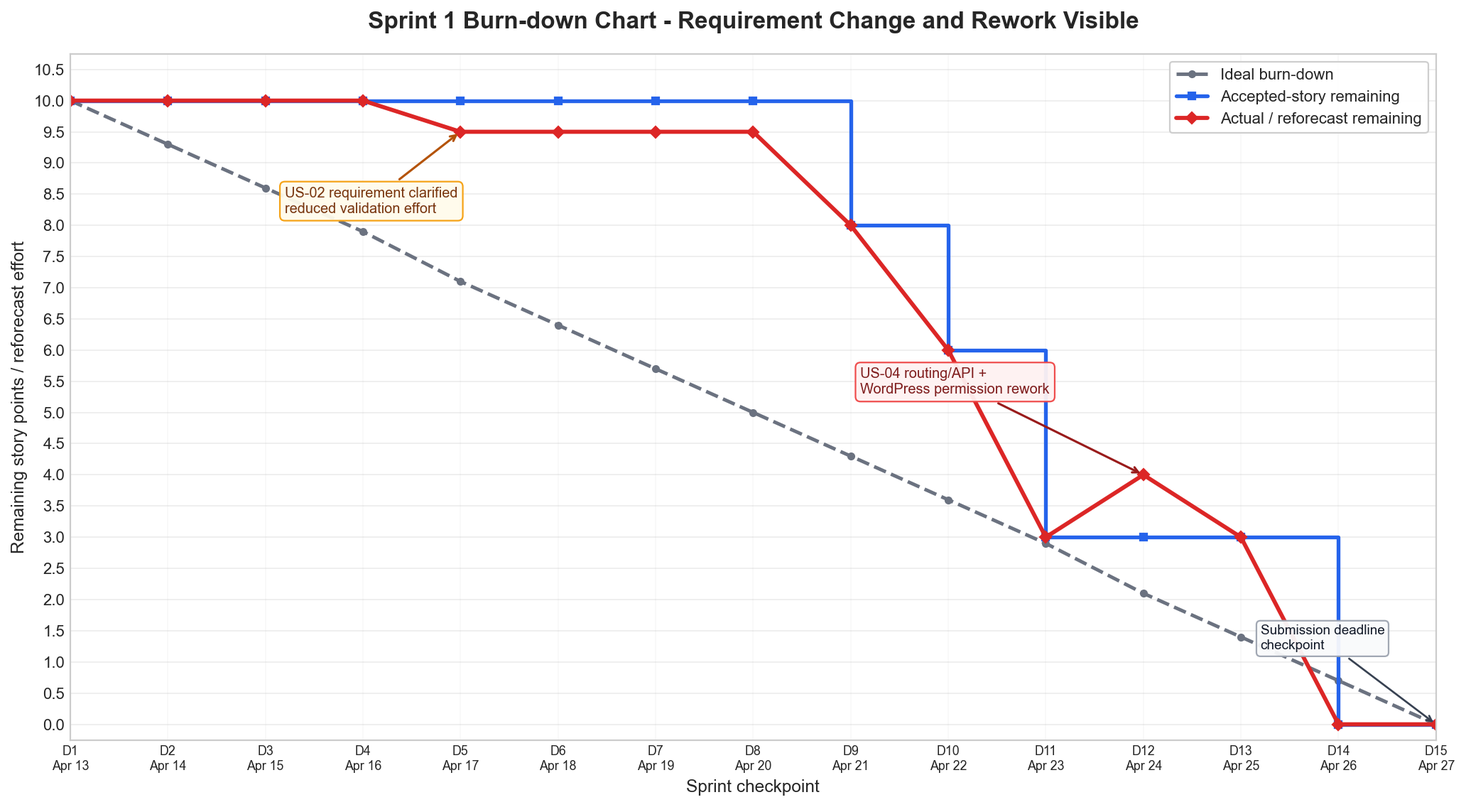
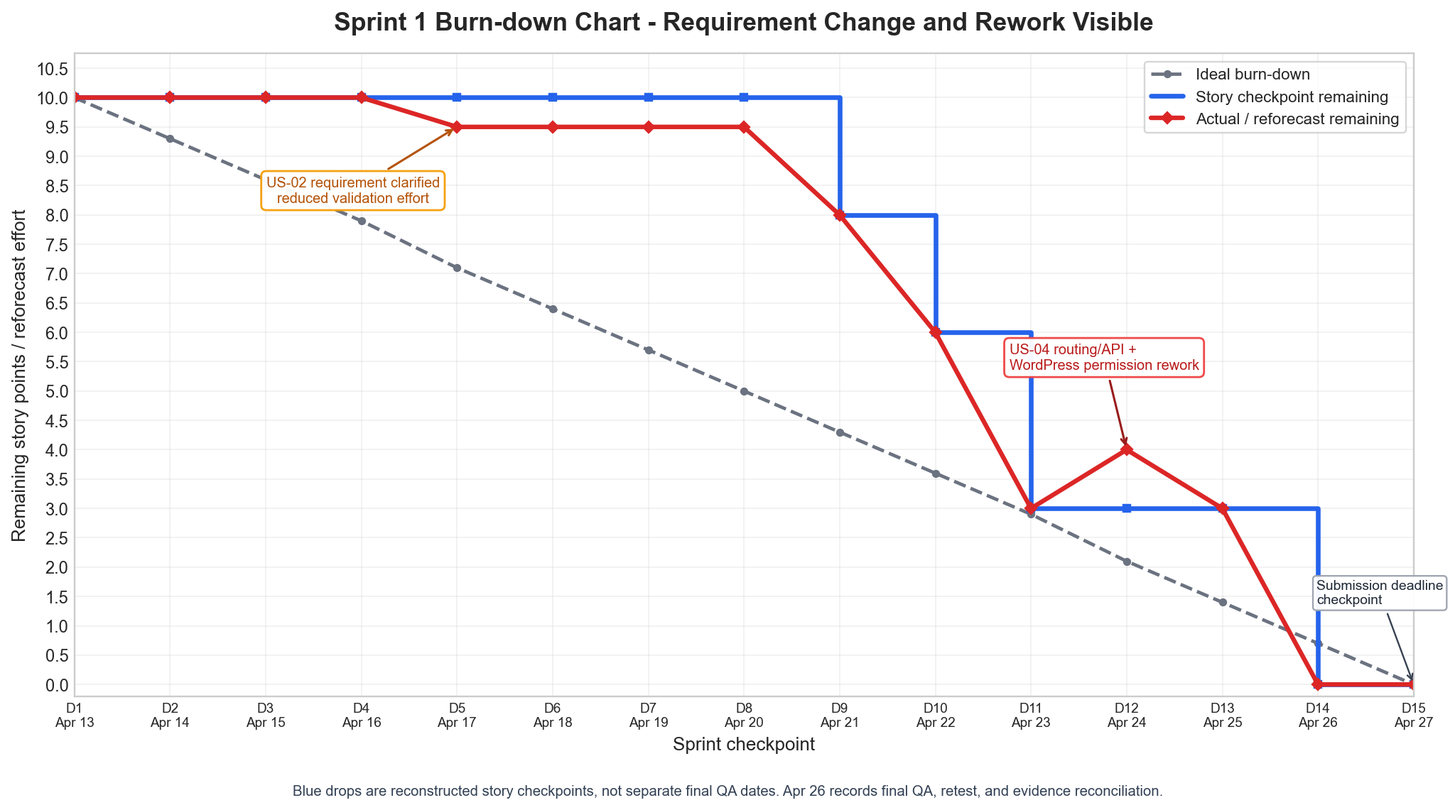
FINAL COMMIT - A2 W7 Submission

diff --git a/Sprint_1/S1_Burn_Down_Chart.md b/Sprint_1/S1_Burn_Down_Chart.md
@@ -19,8 +19,9 @@ The ideal burn-down line was fixed during Sprint Planning. The team made progres
 
 To keep the chart honest rather than artificially smooth:
 
-- Work that had not reached DoD was not counted as burned down.
-- Completed stories reduced the actual remaining effort only when acceptance/validation evidence was available.
+- Story-point burn-down records the best reconstructed story-completion checkpoint from the Sprint Backlog, stand-up/checkpoint notes, and final close-out evidence.
+- The 2026-04-26 QA table records final regression and evidence reconciliation, not necessarily the first date when each story became implementation-ready or had an initial validation check.
+- If final QA found rework, the defect was recorded and resolved before close-out rather than moving all earlier progress to the final day.
 - Requirement clarifications that reduced required validation scope were recorded as a downward reforecast on the actual/reforecast line, without changing the original committed story points.
 - When US-04 exposed additional rework on Day 12, the actual/reforecast line moved upward from 3 SP to 4 SP.
 - The original committed story points did not change; the temporary downward and upward movements represent reforecast effort caused by requirement clarification and discovered implementation work.
@@ -28,7 +29,7 @@ To keep the chart honest rather than artificially smooth:
 
 ## Risk Response Use of the Actual / Reforecast Line
 
-The **Actual / Reforecast Remaining** line is also used as a Sprint 1 risk-response and monitoring strategy. It does not replace the accepted-story burn-down line and does not change the original Sprint 1 commitment. Instead, it gives the Scrum Team a visible way to record when a risk or clarification changes the amount of remaining work inside the committed stories.
+The **Actual / Reforecast Remaining** line is also used as a Sprint 1 risk-response and monitoring strategy. It does not replace the story burn-down line and does not change the original Sprint 1 commitment. Instead, it gives the Scrum Team a visible way to record when a risk or clarification changes the amount of remaining work inside the committed stories.
 
 This was useful in two Sprint 1 cases:
 
@@ -43,7 +44,7 @@ The current Sprint 1 requirement text removes two earlier library-related assump
 
 The chart therefore records the clarification as a small downward reforecast on Day 5:
 
-- The **Accepted-Story Remaining Line** stays unchanged at 10 SP until `US-03` reaches DoD, because no whole user story was accepted or removed on Day 5.
+- The **Story Remaining Line** stays unchanged at 10 SP on Day 5 because no whole user story was removed or accepted on that day.
 - The **Actual / Reforecast Remaining Line** drops from 10 SP to 9.5 SP on Day 5 to show reduced validation/configuration effort after the deleted university-library and library-colour requirements.
 - Later, the same actual/reforecast line rises from 3 SP to 4 SP on Day 12 when `US-04` routing and WordPress permission work created additional rework.
 
@@ -51,22 +52,22 @@ This approach follows the burn-down guide: the ideal line remains fixed, while t
 
 ## Burn Down Data Table
 
-| Day | Date | Ideal Remaining (SP) | Accepted-Story Remaining (SP) | Actual / Reforecast Remaining (SP) | Daily Update / Change Note |
+| Day | Date | Ideal Remaining (SP) | Story Remaining (SP) | Actual / Reforecast Remaining (SP) | Daily Update / Change Note |
 | --- | ---- | -------------------- | ----------------------------- | ---------------------------------- | -------------------------- |
 | 1 | Apr 13 (Mon) | 10.0 | 10 | 10 | Sprint start; task assignments confirmed and Sprint 1 WordPress/map work began. |
 | 2 | Apr 14 (Tue) | 9.3 | 10 | 10 | WordPress access, plugin options, and map setup assumptions reviewed; progress made but no story reached DoD. |
 | 3 | Apr 15 (Wed) | 8.6 | 10 | 10 | Location list, marker fields, and dataset scope checked; no story reached DoD. |
 | 4 | Apr 16 (Thu) | 7.9 | 10 | 10 | Stand-up/checkpoint: WP Go Maps + Leaflet confirmed as the map solution; data work continued. |
-| 5 | Apr 17 (Fri) | 7.1 | 10 | 9.5 | Requirement clarification reduced US-02 validation scope: university-library coverage and library colour distinction were no longer required. No whole story reached DoD, so accepted-story remaining stayed at 10 SP. |
+| 5 | Apr 17 (Fri) | 7.1 | 10 | 9.5 | Requirement clarification reduced US-02 validation scope: university-library coverage and library colour distinction were no longer required. No whole story reached a completion checkpoint, so story remaining stayed at 10 SP. |
 | 6 | Apr 18 (Sat) | 6.4 | 10 | 9.5 | Marker configuration progressed under the clarified US-02 scope; US-04 approach still under review. |
 | 7 | Apr 19 (Sun) | 5.7 | 10 | 9.5 | Direction feasibility risk escalated for focused follow-up; no story burned yet. Reduced US-02 validation scope remained reflected in the reforecast line. |
 | 8 | Apr 20 (Mon) | 5.0 | 10 | 9.5 | Configuration and validation work continued; story-level DoD evidence still incomplete. |
-| 9 | Apr 21 (Tue) | 4.3 | 8 | 8 | **US-03 Done (2 SP burned):** marker popup details implemented and validated. |
-| 10 | Apr 22 (Wed) | 3.6 | 6 | 6 | **US-02 Done (2 SP burned):** required City of Melbourne area library marker configured and validated. Optional university library markers remained as contextual map content. |
-| 11 | Apr 23 (Thu) | 2.9 | 3 | 3 | **US-01 Done (3 SP burned):** building markers validated; US-04 ORS API blocker raised. |
-| 12 | Apr 24 (Fri) | 2.1 | 3 | 4 | US-04 remained functionally unburned. Reforecast increased by 1 SP because ORS/API configuration, Code Snippets 403, and route visibility fixes added rework before acceptance. |
-| 13 | Apr 25 (Sat) | 1.4 | 3 | 3 | API key issue resolved and route display settings improved; rework reduced, but US-04 still not accepted until final validation. |
-| 14 | Apr 26 (Sun) | 0.7 | 0 | 0 | **US-04 Done (3 SP burned):** direction workflow validated end-to-end. Final QA also found and fixed the US-01 building-marker colour distinction before Sprint 1 evidence was reconciled. |
+| 9 | Apr 21 (Tue) | 4.3 | 8 | 8 | **US-03 completed checkpoint:** marker popup details were configured and checked against the story expectation. Final screenshot/evidence reconciliation was completed during close-out. |
+| 10 | Apr 22 (Wed) | 3.6 | 6 | 6 | **US-02 completed checkpoint:** the required City of Melbourne area library marker was configured under the clarified scope. Dataset-source evidence was reconciled before submission. |
+| 11 | Apr 23 (Thu) | 2.9 | 3 | 3 | **US-01 completed checkpoint:** building markers were configured and checked; US-04 ORS/API blocker was raised. A colour-distinction defect was later found in final QA and fixed before close-out. |
+| 12 | Apr 24 (Fri) | 2.1 | 3 | 4 | US-04 remained open. Reforecast increased by 1 SP because ORS/API configuration, Code Snippets 403, and route visibility fixes added rework before acceptance. |
+| 13 | Apr 25 (Sat) | 1.4 | 3 | 3 | API key issue was resolved and route display settings improved; rework reduced, but US-04 still required final route validation. |
+| 14 | Apr 26 (Sun) | 0.7 | 0 | 0 | **US-04 completed and final QA reconciliation finished:** direction workflow was validated end-to-end, US-01 colour distinction was fixed and retested, and Sprint 1 evidence was reconciled. |
 | 15 | Apr 27 (Mon) | 0.0 | 0 | 0 | Submission deadline checkpoint at 00:00 AEST; no additional story points remained. |
 
 ## Burn Down Chart Visual
@@ -76,7 +77,7 @@ This approach follows the burn-down guide: the ideal line remains fixed, while t
 The chart above plots three signals:
 
 - The **Ideal Burn Down Line** runs straight from 10 SP on Day 1 to 0 SP on Day 15.
-- The **Accepted-Story Remaining Line** shows the strict story-level burn-down after each story met DoD.
+- The **Story Remaining Line** shows the reconstructed story-level burn-down after each story reached its completion checkpoint.
 - The **Actual / Reforecast Remaining Line** shows daily remaining effort after accounting for requirement clarification, discovered rework, and implementation uncertainty.
 
 ## Chart Interpretation
@@ -87,16 +88,16 @@ The chart above plots three signals:
 
 **Ideal Burn Down Line:** A straight line from 10 SP on Day 1 to 0 SP on Day 15, representing a linear completion rate of approximately 0.71 SP per calendar checkpoint. This line was fixed at Sprint Planning and was not adjusted at any point during the sprint.
 
-**Accepted-Story Remaining Line:** This line remained flat at 10 SP from Day 1 through Day 8 because task progress had not yet converted into accepted user stories. It then dropped when stories met DoD:
+**Story Remaining Line:** This line remained flat at 10 SP from Day 1 through Day 8 because task progress had not yet converted into story-level completion checkpoints. It then dropped when stories reached their reconstructed completion checkpoints:
 
-- Day 9 (Apr 21): US-03 completed - 8 SP remaining.
-- Day 10 (Apr 22): US-02 completed - 6 SP remaining.
-- Day 11 (Apr 23): US-01 completed - 3 SP remaining.
+- Day 9 (Apr 21): US-03 marker popup detail work completed - 8 SP remaining.
+- Day 10 (Apr 22): US-02 required City of Melbourne area library marker work completed under the clarified scope - 6 SP remaining.
+- Day 11 (Apr 23): US-01 building marker work completed at the story checkpoint - 3 SP remaining.
 - Days 11-13: US-04 remained open because routing/API and environment-permission constraints were not fully resolved.
-- Day 14 (Apr 26): US-04 completed - 0 SP remaining.
+- Day 14 (Apr 26): US-04 completed and final QA/evidence reconciliation closed the sprint - 0 SP remaining.
 
-**Actual / Reforecast Remaining Line:** This line is the more realistic process signal. It separates accepted story completion from changes in remaining effort. It dips from 10 SP to 9.5 SP on Day 5 when the `US-02` library requirement is clarified and validation work is reduced. It then follows delivery progress until Day 12, when `US-04` creates additional implementation work. The increase from 3 SP to 4 SP records a genuine change in remaining effort caused by ORS/API configuration work, Code Snippets 403, and route-display validation. The line then drops back to 3 SP on Day 13 after the API and route display work improved, and reaches 0 SP on Day 14 after final validation.
+**Actual / Reforecast Remaining Line:** This line is the more realistic process signal. It separates story-completion checkpoints from changes in remaining effort. It dips from 10 SP to 9.5 SP on Day 5 when the `US-02` library requirement is clarified and validation work is reduced. It then follows delivery progress until Day 12, when `US-04` creates additional implementation work. The increase from 3 SP to 4 SP records a genuine change in remaining effort caused by ORS/API configuration work, Code Snippets 403, and route-display validation. The line then drops back to 3 SP on Day 13 after the API and route display work improved, and reaches 0 SP on Day 14 after final validation.
 
 The Day 5 downward movement records a requirement clarification: the library story no longer needed university-library coverage or library colour distinction. The Day 12 upward movement records implementation rework for `US-04`. No committed user story was removed from Sprint 1 and no new user story was added; the actual/reforecast line shows changing remaining effort inside the committed stories.
 
-**Key Observation:** The flat first-half accepted-story line, the Day 5 downward reforecast, the Day 12 upward reforecast, and the final sharp drop show the value of maintaining a burn-down chart as a living Scrum artefact. The chart highlights that Sprint 2 should validate high-uncertainty WordPress/plugin capabilities earlier and record requirement clarifications as they occur instead of discovering or reconciling them near close-out.
+**Key Observation:** The chart shows both gradual delivery progress and realistic variation. The Day 5 downward reforecast records a requirement clarification, the Day 12 upward reforecast records routing rework, and the Day 14 close-out records final validation and evidence reconciliation. This is more useful than a perfectly smooth line because it shows how Sprint 1 work actually changed over time and highlights that Sprint 2 should validate high-uncertainty WordPress/plugin capabilities earlier.

diff --git a/Sprint_1/S1_Quality_Assurance.md b/Sprint_1/S1_Quality_Assurance.md
@@ -19,20 +19,22 @@ Testing focused on whether the live WordPress page honestly demonstrates the req
 - basic directions can be generated from Melbourne Connect or another entered starting point to a selected marker
 - known WordPress/plugin constraints are recorded in the Defect Log rather than hidden
 
+The **Test Date** column records the final close-out QA, retest, or evidence-reconciliation date. Earlier implementation and story-completion checkpoints are tracked in the Sprint Backlog and Burn-down Chart. This avoids treating the 2026-04-26 final QA pass as if all story work first happened on that date.
+
 ## Acceptance Criteria and Test Cases
 
 | Test ID | User Story | Acceptance Criteria Checked | BDD Scenario | Result | Tested By | Test Date | Evidence / Comments |
 | ------- | ---------- | --------------------------- | ------------ | ------ | --------- | --------- | ------------------- |
-| S1-QA-001 | US-01 | Selected University of Melbourne and RMIT University building markers are displayed on the interactive map. | Given the WordPress map page is available, when the user opens the interactive map, then the selected building markers are displayed. | Pass | @Conghao Lin | 2026-04-26 | Old Arts Building and RMIT Building 80 are visible in `Sprint_1/etc/S1_Map_Overview.png`. |
+| S1-QA-001 | US-01 | Selected University of Melbourne and RMIT University building markers are displayed on the interactive map. | Given the WordPress map page is available, when the user opens the interactive map, then the selected building markers are displayed. | Pass | @Conghao Lin | 2026-04-26 | Old Arts Building and RMIT Building 80 are visible in `Sprint_1/etc/S1_Map_Overview.png`. Initial story checkpoint recorded on Apr 23; final evidence check completed on Apr 26. |
 | S1-QA-002 | US-01 | University of Melbourne and RMIT University building markers are distinguishable by colour. | Given both building markers are visible, when the user compares the markers, then the University of Melbourne building marker and the RMIT University building marker use different colours. | Pass | @Conghao Lin | 2026-04-26 | Final QA found the original same-colour marker issue and it was fixed before close-out: Old Arts uses a blue marker and RMIT Building 80 uses a green marker. Recorded as `DEF-004`. |
-| S1-QA-003 | US-02 | Selected City of Melbourne area library markers are displayed. | Given the interactive map is available, when the user views the map, then selected library markers within the City of Melbourne area are displayed and can be selected. | Pass | @Conghao Lin | 2026-04-26 | City Library is visible on the shared map and opens a marker popup. Baillieu Library and RMIT Swanston Library are also visible as optional contextual markers, but the updated requirement no longer treats university-library coverage or university/public library colour distinction as required. |
-| S1-QA-004 | US-03 | Marker popups display basic details. | Given a marker is available, when the user clicks the marker, then the popup displays the name, coordinates, type, organisation, description, and directions option. | Pass | @Conghao Lin | 2026-04-26 | Building and library popup evidence stored in `Sprint_1/etc/S1_Marker_Popup_Building.png` and `Sprint_1/etc/S1_Marker_Popup_Library.png`. |
+| S1-QA-003 | US-02 | Selected City of Melbourne area library markers are displayed. | Given the interactive map is available, when the user views the map, then selected library markers within the City of Melbourne area are displayed and can be selected. | Pass | @Conghao Lin | 2026-04-26 | City Library is visible on the shared map and opens a marker popup. Baillieu Library and RMIT Swanston Library are also visible as optional contextual markers, but the updated requirement no longer treats university-library coverage or university/public library colour distinction as required. Initial story checkpoint recorded on Apr 22; final evidence check completed on Apr 26. |
+| S1-QA-004 | US-03 | Marker popups display basic details. | Given a marker is available, when the user clicks the marker, then the popup displays the name, coordinates, type, organisation, description, and directions option. | Pass | @Conghao Lin | 2026-04-26 | Building and library popup evidence stored in `Sprint_1/etc/S1_Marker_Popup_Building.png` and `Sprint_1/etc/S1_Marker_Popup_Library.png`. Initial story checkpoint recorded on Apr 21; final evidence check completed on Apr 26. |
 | S1-QA-005 | US-03 | Marker detail display changes when a different marker is selected. | Given one marker popup is open, when the user selects another marker, then the displayed details change to match the newly selected marker. | Pass | @Conghao Lin | 2026-04-26 | Verified through marker popup checks on the live page. |
 | S1-QA-006 | US-04 | Basic directions are generated from Melbourne Connect or another entered starting point to a selected marker. | Given a marker has been selected, when the user clicks Get Directions, enters Melbourne Connect as the starting point, and clicks Go, then the map displays an in-page route to the selected destination. | Pass | @Conghao Lin | 2026-04-26 | Route evidence stored in `Sprint_1/etc/S1_Directions_Route.png`; route result showed approximately 2 km and about 5 minutes from Melbourne Connect to City Library. |
 | S1-QA-007 | US-04 | Unsupported or incomplete direction states are handled visibly rather than over-claimed. | Given the custom From/To validation path is blocked by WordPress permissions, when the team validates the direction workflow, then the team records the environment constraint and uses the plugin-supported marker-selected destination flow. | Pass with accepted constraint | @Conghao Lin | 2026-04-26 | `DEF-003` records the Code Snippets 403 limitation. The accepted Sprint 1 behaviour is destination auto-population from the selected marker plus user-entered starting point. |
 | S1-QA-008 | US-01, US-02 | Map zoom and pan support is sufficient for Sprint 1 marker demonstration. | Given the interactive map is loaded, when the user uses the visible zoom and pan controls, then markers remain visible and selectable, while any limited close-detail zoom is recorded as a usability constraint. | Pass with accepted constraint | @Conghao Lin | 2026-04-26 | Zoom controls are visible in the map evidence and markers remain selectable. Practical close-detail zoom is limited and is recorded as `DEF-005` for Sprint 2 usability review. |
 | S1-QA-009 | US-04 | Direction route evidence is present and route marker/category limitations are not hidden. | Given the route workflow is demonstrated, when the route screenshot is reviewed, then the route evidence exists under `Sprint_1/etc/S1_Directions_Route.png` and any default waypoint marker/category limitation is recorded. | Pass with accepted constraint | @Conghao Lin | 2026-04-26 | `Sprint_1/etc/S1_Directions_Route.png` exists and is linked from the Showcase. Opening Get Directions can create temporary route waypoint markers using plugin default styling, and free-text route inputs cannot be categorised without a marker/category lookup; recorded as `DEF-006`. |
-| S1-QA-010 | US-02 | Required library marker evidence follows the published dataset reduction rule. | Given the Sprint 1 library dataset requirement, when the team selects required library evidence for US-02, then required evidence is limited to City of Melbourne area library records from the latest available data year and records that represent libraries. | Pass with documented evidence boundary | @Conghao Lin | 2026-04-26 | City Library is the required US-02 evidence marker. Optional University of Melbourne and RMIT library markers are contextual only and are not used to satisfy the updated US-02 acceptance criterion. |
+| S1-QA-010 | US-02 | Required library marker evidence follows the published dataset reduction rule. | Given the Sprint 1 library dataset requirement, when the team selects required library evidence for US-02, then required evidence is limited to City of Melbourne area library records from the latest available data year and records that represent libraries. | Pass with documented evidence boundary | @Conghao Lin | 2026-04-26 | City Library is the required US-02 evidence marker. It was checked against the Data Vic / City of Melbourne business-establishments dataset using the latest available year identified in the source file (`2024`) and the library classification `industry_anzsic4_code = 6010` / `Libraries and Archives`. Optional University of Melbourne and RMIT library markers are contextual only and are not used to satisfy the updated US-02 acceptance criterion. |
 
 ## Ongoing QA Tracking
 
@@ -58,7 +60,7 @@ Testing focused on whether the live WordPress page honestly demonstrates the req
 | Required marker data and WordPress configuration were validated for demonstration. | Met | Five selected markers are present on the live map with popup details. |
 | Building markers from the two universities are distinguishable by colour. | Met after final QA fix | Old Arts uses a blue marker and RMIT Building 80 uses a green marker. |
 | City of Melbourne area library marker is visible and selectable. | Met | City Library is visible on the shared map and has marker popup details. |
-| Required library evidence follows the dataset reduction rule. | Met with documented evidence boundary | US-02 required evidence is limited to City of Melbourne area library coverage. Optional UoM/RMIT library markers are retained only as contextual map content. |
+| Required library evidence follows the dataset reduction rule. | Met with documented evidence boundary | US-02 required evidence is limited to City Library as the City of Melbourne marker. The source check used the Data Vic / City of Melbourne business-establishments dataset, latest available year `2024`, and library classification `industry_anzsic4_code = 6010` / `Libraries and Archives`. Optional UoM/RMIT library markers are retained only as contextual map content. |
 | Bugs, defects, and accepted constraints discovered during delivery were recorded and retested or explicitly accepted. | Met | `Main/Defect_Log_Tracker.md` records DEF-001 to DEF-006, including the marker-colour issue closed on 2026-04-26 and the accepted zoom/category constraints carried into Sprint 2. |
 | Demo evidence was prepared for Sprint Review / Showcase. | Met | Screenshots stored in `Sprint_1/etc/` and linked from `S1_Sprint_Showcase.md`. |
 | Remaining implementation constraints were not hidden. | Met | Code Snippets 403 remains recorded as an accepted environment constraint for Sprint 2 planning. |

diff --git a/Sprint_1/S1_Sprint_Backlog.md b/Sprint_1/S1_Sprint_Backlog.md
@@ -26,17 +26,17 @@ Daily tracking records the remaining story points for the user story. To keep th
 | US-01 | As a student or outreach planner, I want to view selected University of Melbourne and RMIT University building locations on an interactive map, so that I can identify relevant university sites for outreach coordination. | US1_T1 | Confirm the approved list of selected university building locations and the marker fields required for WordPress map entry. | @Zihan Shi | Done | 3 | 3 | 3 | 3 | 3 | 3 | 3 | 3 | 3 | 3 | 3 | 0 | 0 | 0 | 0 |
 |  |  | US1_T2 | Compile and clean the building location data into a map-ready format, including coordinate checks and basic identifying fields. | @Fazheng Xu | Done | 3 |  |  |  | In Progress |  |  | In Progress |  |  | Completed |  |  |  |  |
 |  |  | US1_T3 | Configure the WordPress map component to display the selected university building markers with distinguishable University of Melbourne and RMIT marker colours. | @Fazheng Xu | Done | 3 |  |  |  |  |  |  | In Progress |  |  | Completed |  |  |  |  |
-|  |  | US1_T4 | Validate building marker visibility, colour distinction, and selection behaviour against the acceptance criteria. | @Conghao Lin | Done | 3 |  |  |  |  |  |  |  |  |  | Queued | Completed |  |  |  |
+|  |  | US1_T4 | Validate building marker visibility, colour distinction, and selection behaviour against the acceptance criteria. | @Conghao Lin | Done | 3 |  |  |  |  |  |  |  |  |  | Queued | Completed |  |  | Final retest |
 |  |  | US1_T5 | Monitor US-01 delivery progress and update sprint artefacts to reflect current status. | @Manting Yu | Done | 3 | Started |  |  |  |  |  |  |  |  |  | Completed |  |  |  |
 | US-02 | As a student or outreach planner, I want to view selected library locations on the same interactive map, so that I can identify library sites relevant to outreach activity planning. | US2_T1 | Confirm the approved list of selected City of Melbourne area library locations and the marker details required for the shared map. | @Zihan Shi | Done | 2 | 2 | 2 | 2 | 2 | 2 | 2 | 2 | 2 | 2 | 0 | 0 | 0 | 0 | 0 |
 |  |  | US2_T2 | Compile and clean the required City of Melbourne area library location data for inclusion in the shared WordPress map view. | @Fazheng Xu | Done | 2 |  |  |  | In Progress | Scope clarified |  | In Progress |  |  | Completed |  |  |  |  |
 |  |  | US2_T3 | Add the selected City of Melbourne area library marker to the shared map and check that the approved WordPress configuration supports consistent marker behaviour. | @Jiajun Jiang | Done | 2 |  |  |  |  | Scope clarified |  | In Progress |  |  | Completed |  |  |  |  |
-|  |  | US2_T4 | Validate library marker behaviour and consistency against the acceptance criteria. | @Conghao Lin | Done | 2 |  |  |  |  |  |  |  |  | Queued | Completed |  |  |  |  |
+|  |  | US2_T4 | Validate library marker behaviour and consistency against the acceptance criteria. | @Conghao Lin | Done | 2 |  |  |  |  |  |  |  |  | Queued | Completed |  |  |  | Evidence reconciled |
 |  |  | US2_T5 | Monitor US-02 delivery progress and ensure artefact consistency between Sprint Backlog and stand-up log. | @Manting Yu | Done | 2 | Started |  |  |  |  |  |  |  |  | Completed |  |  |  |  |
 | US-03 | As a user, I want to view basic details for a selected location from the map, so that I can quickly understand what the chosen site represents. | US3_T1 | Define the minimum detail set to display for university building and library markers. | @Zihan Shi | Done | 2 | 2 | 2 | 2 | 2 | 2 | 2 | 2 | 2 | 0 | 0 | 0 | 0 | 0 | 0 |
 |  |  | US3_T2 | Configure the marker detail interaction and popup layout for the selected Sprint 1 locations. | @Jiajun Jiang | Done | 2 |  |  |  |  |  |  | In Progress |  | Completed |  |  |  |  |  |
 |  |  | US3_T3 | Link the prepared marker data to the basic detail display for each selected location. | @Fazheng Xu | Done | 2 |  |  |  |  |  |  |  |  | Completed |  |  |  |  |  |
-|  |  | US3_T4 | Validate the detail display for correctness, completeness, and acceptance-criteria coverage across the selected Sprint 1 locations. | @Conghao Lin | Done | 2 |  |  |  |  |  |  |  |  | Completed |  |  |  |  |  |
+|  |  | US3_T4 | Validate the detail display for correctness, completeness, and acceptance-criteria coverage across the selected Sprint 1 locations. | @Conghao Lin | Done | 2 |  |  |  |  |  |  |  |  | Completed |  |  |  |  | Evidence reconciled |
 |  |  | US3_T5 | Monitor US-03 delivery progress and update sprint artefacts accordingly. | @Manting Yu | Done | 2 | Started |  |  |  |  |  |  |  | Completed |  |  |  |  |  |
 | US-04 | As a user, I want to obtain basic directions from a nominated starting point to a selected location, so that I can understand how to reach that site. | US4_T1 🟣 | Confirm the approved Sprint 1 interpretation of "basic direction finding" and identify a WordPress-compatible starting-point approach worth testing. | @Zihan Shi | Done | 3 | 3 | 3 | 3 | 3 | 3 | 3 | 3 | 3 | 3 | 3 | 3 | 3 | 3 | 0 |
 |  |  | US4_T2 🟣 | Configure the user interaction for selecting a destination and entering or choosing a starting point. | @Jiajun Jiang | Done | 3 |  |  |  | Started |  |  | In Progress |  | In Progress |  | Blocked | Blocked | Completed |  |
@@ -55,6 +55,8 @@ Daily tracking records the remaining story points for the user story. To keep th
 **US-04 Route Evidence:** The final demo path used Melbourne Connect as the starting point and a selected map marker as the destination. The route was displayed in-page through WP Go Maps/OpenRouteService and documented in the Sprint Showcase evidence.
 
 **Map Zoom and Category Constraint Evidence:** Final close-out review recorded two additional accepted constraints. First, close-detail zoom is limited even though the map supports the Sprint 1 zoom/pan and marker-selection demonstration. Second, route start/end waypoint markers use plugin default styling and free-text route inputs cannot be categorised as a known building/library without matching them to stored marker/category data. These are recorded as `DEF-005` and `DEF-006` and carried forward to Sprint 2 planning.
+
+**Close-out QA Reconciliation:** US-03, US-02, and US-01 reached story-level completion checkpoints before the final sprint day. The 2026-04-26 QA work was used as final regression and evidence reconciliation, not as evidence that all story work first became complete on that date. The US-01 building-marker colour issue found during final QA is recorded as `DEF-004`, fixed, and retested before close-out.
 
 ## Task Breakdown Rationale
 

diff --git a/Sprint_1/S1_Scrum_Artefact_Checklist.md b/Sprint_1/S1_Scrum_Artefact_Checklist.md
@@ -17,7 +17,7 @@ This checklist records the Sprint 1 close-out check against the published Sprint
 | S1-REQ-07 | Directions can be shown from Melbourne Connect or another entered location to a selected marker/location. | Complete with documented environment constraint | Route evidence is stored in `Sprint_1/etc/S1_Directions_Route.png`. Code Snippets 403 prevented custom validation and is recorded as `DEF-003`. |
 | S1-REQ-08 | The system is ready for further enhancements in Sprints 2 and 3. | Complete with carry-forward risks | Sprint 2 should validate WordPress permissions, plugin configuration, and custom-code assumptions early. |
 | S1-REQ-09 | Route evidence image is available in the Sprint 1 evidence folder. | Complete | `Sprint_1/etc/S1_Directions_Route.png` exists and is linked from `S1_Sprint_Showcase.md`. |
-| S1-REQ-10 | Library data used for required US-02 evidence is reduced to the latest available year and records that represent libraries only. | Complete with documented evidence boundary | QA and Showcase state this data rule. City Library is the required City of Melbourne library evidence marker; optional UoM/RMIT library markers are contextual only. |
+| S1-REQ-10 | Library data used for required US-02 evidence is reduced to the latest available year and records that represent libraries only. | Complete with documented evidence boundary | QA and Showcase state this data rule. City Library is the required City of Melbourne library evidence marker, checked against the 2024 Data Vic library classification (`industry_anzsic4_code = 6010` / `Libraries and Archives`); optional UoM/RMIT library markers are contextual only. |
 
 ## Requirement Clarification Checklist
 
@@ -64,7 +64,7 @@ This checklist records the Sprint 1 close-out check against the published Sprint
 | Sprint Planning | `Sprint_1/S1_Sprint_Planning.md` | Complete | Sprint goal, selected user stories, BDD-style acceptance criteria, estimates, tasks, and clarification record are present. |
 | Sprint Backlog | `Sprint_1/S1_Sprint_Backlog.md` | Complete | Story status, task ownership, daily tracking, blocker plateau, and `US-02` clarification are present. |
 | Stand-up / Checkpoint Log | `Sprint_1/S1_Daily_Stand_Up_Meeting.md` | Complete | Uses the guide's four-question format and records progress, blockers, next steps, and action items. |
-| Burn-down Chart | `Sprint_1/S1_Burn_Down_Chart.md` and `Sprint_1/etc/S1_Burn_Down_Chart.png` | Complete | Ideal, accepted-story, and actual/reforecast lines are documented, including down/up fluctuation. |
+| Burn-down Chart | `Sprint_1/S1_Burn_Down_Chart.md` and `Sprint_1/etc/S1_Burn_Down_Chart.png` | Complete | Ideal, story, and actual/reforecast lines are documented, including down/up fluctuation. |
 | Risk Management | `Main/Risk_Management.md` | Complete | Sprint 1 close-out risk tracking includes WordPress, data, delivery pressure, and requirement clarification risk. |
 | Sprint Risk Monitoring | `Sprint_1/S1_Risk_Monitoring.md` | Complete | Monitors risks through Sprint 1 checkpoints and records R006 as a controlled clarification. |
 | Defect Log | `Main/Defect_Log_Tracker.md` | Complete | `DEF-001` to `DEF-006` are recorded, including the closed marker-colour issue and accepted Code Snippets, zoom, and route category constraints. |
@@ -80,7 +80,7 @@ This checklist records the Sprint 1 close-out check against the published Sprint
 | Risk / Closure Item | Status | Required Action Before Final Submission |
 | ------------------- | ------ | --------------------------------------- |
 | Live WordPress page accessibility and map loading. | Checked | The live WordPress page was re-opened during close-out; the map loaded with five formal markers, marker popups, and route evidence. Screenshots remain in Git as repository evidence if the page requires login or plugin assets fail during review. |
-| Dataset traceability for US-02. | Documented | Keep the required evidence limited to City of Melbourne area library records and ensure any final raw-data note or upload, if requested, matches the latest-year/library-only rule. |
+| Dataset traceability for US-02. | Documented | Required evidence is limited to City Library as the City of Melbourne marker, and QA/Showcase document the Data Vic latest-year/library-only source/filter rule. |
 | Asynchronous demo video expectation. | Conditional / not identified as mandatory for Sprint 1 | Sprint 1 notes ask for a Demo Summary with screenshots/descriptions/videos as appropriate. The Git showcase contains screenshots and a demo sequence; record video only if the assessment channel or tutor explicitly requests it for Sprint 1. |
 | Release tag and commit comments. | Completed | The final commit is on `main` and the Sprint 1 release tag identifies the current submission baseline. |
 | Unresolved constraints. | Documented | `DEF-003`, `DEF-005`, and `DEF-006` are intentionally carried forward and should not be described as hidden or fully solved implementation work. |

diff --git a/Main/Risk_Management.md b/Main/Risk_Management.md
@@ -85,7 +85,7 @@ The risk register below documents the most important risks identified at the Wee
 
 ## Sprint 1 Risk Response Tracking Strategy
 
-Sprint 1 used the **Actual / Reforecast Remaining** line in the burn-down chart as a practical risk-response tracking mechanism. The team kept the original story-point commitment and the accepted-story burn-down unchanged, but used the reforecast line to make risk impact visible when remaining effort changed inside committed stories.
+Sprint 1 used the **Actual / Reforecast Remaining** line in the burn-down chart as a practical risk-response tracking mechanism. The team kept the original story-point commitment and story-level burn-down unchanged, but used the reforecast line to make risk impact visible when remaining effort changed inside committed stories.
 
 This strategy was applied to:
 
@@ -101,7 +101,7 @@ These items were identified during Sprint 1 close-out. They do not change the co
 | Risk Area | Risk Statement | Current Treatment |
 | --------- | -------------- | ----------------- |
 | Live evidence accessibility | _"The WordPress page or map plugin assets are unavailable during review -> the reviewer cannot reproduce the live demonstration -> Sprint 1 implementation evidence appears weaker than the completed artefacts."_ | Screenshots are retained in `Sprint_1/etc/` and linked from Showcase and QA. The live WordPress page was re-checked during close-out, and the Sprint 1 release tag identifies the final baseline. |
-| Dataset traceability | _"The required library dataset reduction is not explicit enough -> the reviewer may question whether US-02 used latest-year library records only -> acceptance evidence may appear under-supported."_ | QA and Showcase now state the latest-year/library-only rule and limit required US-02 evidence to the City of Melbourne library marker. Optional university library markers are contextual only. |
+| Dataset traceability | _"The required library dataset reduction is not explicit enough -> the reviewer may question whether US-02 used latest-year library records only -> acceptance evidence may appear under-supported."_ | QA and Showcase now state the latest-year/library-only rule, using City Library as the required City of Melbourne evidence marker and treating optional university library markers as contextual only. |
 | Submission mechanics | _"The final Git commit, release tag, or conditional video evidence is not aligned with the submitted artefacts -> the repository baseline becomes unclear -> assessment traceability is reduced."_ | The final Sprint 1 artefacts are committed on `main`, and the Sprint 1 release tag identifies that baseline. Record video only if Sprint 1 submission instructions explicitly request it. |
 
 ## Risk Review Approach

diff --git a/Sprint_1/S1_Sprint_Planning.md b/Sprint_1/S1_Sprint_Planning.md
@@ -148,17 +148,17 @@ US-04 is estimated above the baseline because it introduces the most uncertain S
 | US-03 | Define the minimum location detail set; configure the marker detail interaction; validate content mapping. |
 | US-04 | Confirm the approved basic direction workflow; configure starting-point input; connect the selected destination to the direction response; validate the end-to-end flow. |
 
-## Sprint 1 Technical Work Already Underway by 2026-04-22
+## Sprint 1 Technical Work Completed by Close-out
 
-Although Sprint 1 is still in progress, the team has already moved beyond planning-only work. The following concrete technical and research-oriented activities have been undertaken during the period from **2026-04-13** to **2026-04-22**:
+Sprint 1 moved beyond planning into WordPress configuration, data preparation, validation, and close-out evidence work. The following technical and research-oriented activities were completed or reconciled during the period from **2026-04-13** to **2026-04-26**:
 
 - Review of the approved WordPress environment to identify what map and marker behaviour can be configured without leaving the allowed platform.
 - Preparation of map-ready building and City of Melbourne area library location fields, including the minimum data needed for marker placement and basic details.
 - Investigation of how a shared WordPress map page can support both university-building and library markers without treating them as separate implementations.
-- Early configuration work for marker-detail behaviour so that `US-03` remains tied to real interaction work rather than only to descriptive planning.
-- Focused feasibility investigation for the minimum acceptable `US-04` direction workflow, including what kind of starting-point input and destination response might realistically be supported.
+- Configuration and close-out checking for marker-detail behaviour so that `US-03` remains tied to real interaction work rather than only to descriptive planning.
+- Focused feasibility investigation and final validation for the minimum acceptable `US-04` direction workflow, including the supported starting-point input and selected-marker destination response.
 
-These activities are tracked in more detail in the Sprint Backlog, the Daily Stand-Up / checkpoint log, and `S1_Technical_Investigation_and_WordPress_Work.md`.
+These activities are tracked in more detail in the Sprint Backlog, the Daily Stand-Up / checkpoint log, the Quality Assurance artefact, and the Defect Log.
 
 ## Detailed Task Breakdown
 

diff --git a/Sprint_1/S1_Daily_Stand_Up_Meeting.md b/Sprint_1/S1_Daily_Stand_Up_Meeting.md
@@ -58,7 +58,7 @@ The SWEN90016 stand-up guide allows teams to run stand-ups at least twice per we
 | @Zihan Shi (Product Owner) | Reviewed story scope and confirmed that, at this checkpoint, no formal teaching-staff clarification had changed Sprint 1. | Maintain current assumptions and keep scope boundaries explicit while continuing to monitor official updates. | None beyond existing clarification limitation. | Continue monitoring official channels only; document any later requirement change as a traceable clarification. |
 | @Fazheng Xu | Continued map/data work for US-01 to US-03 and reviewed environment constraints for US-04. | Push map-related tasks toward a testable state and continue bounded US-04 exploration. | US-04 environment feasibility remains unresolved. | Finalise more map/data work before allocating additional time to routing uncertainty. |
 | @Jiajun Jiang | Continued marker-detail interaction work and reviewed the practical limit of the direction flow. | Stabilise US-03 interaction work and resume US-04 only within the minimum-scope decision. | Direction interaction remains blocked by technical feasibility. | Prioritise visible progress on US-03 while keeping US-04 documented accurately. |
-| @Conghao Lin | Reviewed which tasks were still missing QA, peer review, and validation evidence. | Keep stories marked In Progress until DoD conditions become visible. | No Sprint 1 story is ready to be considered Done yet. | Track readiness for validation and update backlog/status artefacts accordingly. |
+| @Conghao Lin | Reviewed which tasks were still missing QA, peer review, and validation evidence. | Treat US-03 and US-02 as story checkpoints requiring final evidence reconciliation, and keep US-04 out of Done discussion until the route workflow is stable. | Final QA evidence is not fully reconciled yet, and US-04 remains technically uncertain. | Track readiness for validation, keep checkpoint dates separate from final QA dates, and update backlog/status artefacts accordingly. |
 
 ### Date: 2026-04-24
 

diff --git a/Sprint_1/S1_Sprint_Showcase.md b/Sprint_1/S1_Sprint_Showcase.md
@@ -57,7 +57,7 @@ The map supports zoom and drag. The required building institutions (University o
 
 The refreshed overview screenshot is therefore used to evidence the required UoM/RMIT building colour distinction only. Any red/default library markers visible in the screenshot do not contradict the Sprint 1 acceptance criteria, because library colour distinction was removed from the required `US-02` scope.
 
-For US-02 evidence, the required library scope is deliberately bounded to City of Melbourne area library records. The data rule for the required library evidence is that the uploaded dataset should be reduced to the latest available year and to records that represent libraries only. Baillieu Library and RMIT Swanston Library may remain as contextual markers, but they are not used to satisfy the updated US-02 acceptance criterion.
+For US-02 evidence, the required library scope is deliberately bounded to City of Melbourne area library records. The data rule for the required library evidence is that the uploaded dataset should be reduced to the latest available year and to records that represent libraries only. The selected required marker is City Library, checked against the Data Vic / City of Melbourne business-establishments dataset using the latest available year identified in the source file (`2024`) and the library classification `industry_anzsic4_code = 6010` / `Libraries and Archives`. Baillieu Library and RMIT Swanston Library may remain as contextual markers, but they are not used to satisfy the updated US-02 acceptance criterion.
 
 ![Map Overview](etc/S1_Map_Overview.png)
 

diff --git a/Sprint_1/S1_Risk_Monitoring.md b/Sprint_1/S1_Risk_Monitoring.md
@@ -13,7 +13,7 @@ Sprint 1 risk monitoring was performed through the same working pattern used by 
 
 The team did not create a separate risk user story for Sprint 1. The main mitigation work was folded into the existing backlog tasks for US-01 to US-04 because the risks were closely tied to story execution rather than standalone deliverables.
 
-The team also used the **Actual / Reforecast Remaining** line in `S1_Burn_Down_Chart.md` as a risk-response signal. The accepted-story line still records only stories that reached DoD, while the reforecast line records changes in remaining effort caused by risk events or requirement clarification. This made `R004` and `R006` visible in the burn-down instead of leaving them only in narrative notes.
+The team also used the **Actual / Reforecast Remaining** line in `S1_Burn_Down_Chart.md` as a risk-response signal. The story line records reconstructed story-level completion checkpoints, while the reforecast line records changes in remaining effort caused by risk events or requirement clarification. This made `R004` and `R006` visible in the burn-down instead of leaving them only in narrative notes.
 
 ## Sprint 1 Risk Status Log at Close-out
 
